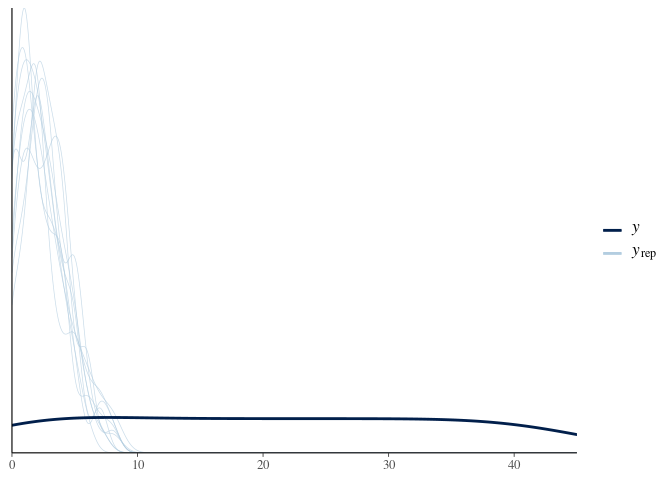
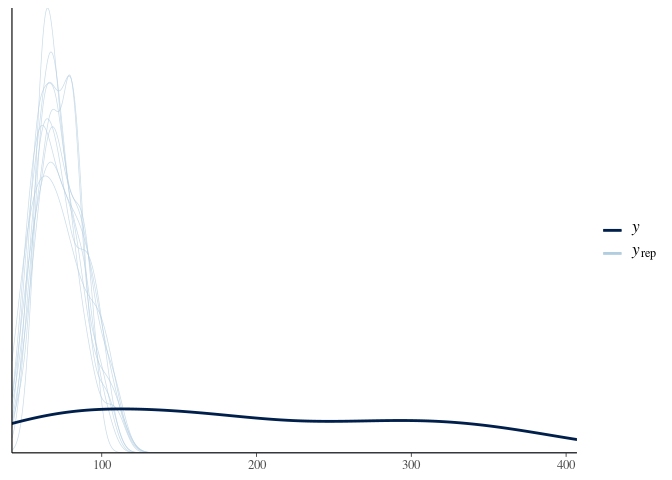
update simple readme example

diff --git a/README.md b/README.md
@@ -5,6 +5,7 @@
 
 [![Lifecycle:
 experimental](https://img.shields.io/badge/lifecycle-experimental-orange.svg)](https://www.tidyverse.org/lifecycle/#experimental)
+![R-CMD-check](https://github.com/epiforecasts/idbrms/workflows/R-CMD-check/badge.svg)
 [![Codecov test
 coverage](https://codecov.io/gh/epiforecasts/brms.ide/branch/master/graph/badge.svg)](https://codecov.io/gh/epiforecasts/brms.ide?branch=master)
 
@@ -23,7 +24,8 @@ devtools::install_github("epiforecasts/idbrms")
 
 ## Example
 
-  - Load `idbrms`, `brms` and `data.table` (used for manipulating data).
+  - Load `idbrms`, `brms`, `data.table` (used for manipulating data),
+    and `ggplot2` for visualisation.
 
 <!-- end list -->
 
@@ -31,48 +33,105 @@ devtools::install_github("epiforecasts/idbrms")
 library(idbrms)
 library(brms)
 library(data.table)
+library(ggplot2)
 ```
 
-  - Define toy data with a fixed 5 day lag between observations.
+  - Define simulated data containing cases of some infectious disease
+    over time in a single region (with an initial growth of 20% a day
+    followed by a decline of 10% a day). We then assume that deaths are
+    a convolution of cases using a log normal distribution with a log
+    mean of 1.6 (standard deviation 0.2) and a log standard deviation of
+    0.8 (standard deviation 0.2), and are then scaled by a fraction
+    (here 0.4 (standard deviation 0.025)).
 
 <!-- end list -->
 
 ``` r
-dt <- data.table(
-  region = "France", cases = seq(10, 500, by = 10),
+# apply a convolution of a log normal to a vector of observations
+weight_cmf <- function(x, ...) {
+   set.seed(x[1])
+   meanlog <- rnorm(1, 1.6, 0.2)
+   sdlog <- rnorm(1, 0.8, 0.1)
+   cmf <- cumsum(dlnorm(1:length(x), meanlog, sdlog)) -
+     cumsum(dlnorm(0:(length(x) - 1), meanlog, sdlog))
+   conv <- sum(x * rev(cmf), na.rm = TRUE)
+   conv <- round(conv, 0)
+  return(conv)
+}
+
+obs <- data.table(
+  region = "Glastonbury", 
+  cases = as.integer(c(10 * exp(0.2 * 1:25), 
+                       10 * exp(0.2 * 25) * exp(-0.1 * 1:25))),
   date = seq(as.Date("2020-10-01"), by = "days", length.out = 50))
-dt[, deaths := as.integer(shift(cases, 5) * 0.1)]
-dt[is.na(deaths), deaths := 0]
+# roll over observed cases to produce a convolution
+obs <- obs[, deaths := frollapply(cases, 15, weight_cmf, align = "right")]
+obs <- obs[!is.na(deaths)]
+obs <- obs[, deaths := round(deaths * rnorm(.N, 0.4, 0.025), 0)]
+obs <- obs[deaths < 0, deaths := 0]
 ```
+
+  - Visual simulated data (columns are cases and points are deaths).
+
+<!-- end list -->
+
+``` r
+ggplot(obs) +
+  aes(x = date, y = cases) +
+  geom_col(fill = "lightgrey") +
+  geom_point(aes(y = deaths)) +
+  theme_minimal()
+```
+
+<img src="man/figures/README-unnamed-chunk-3-1.png" width="100%" />
 
   - Prepare the data to be fit using the convolution model.
 
 <!-- end list -->
 
 ``` r
-dt <- prepare(dt, model = "convolution", location = "region",
-              primary = "cases", secondary = "deaths")
-head(dt, 10)
-#>     location       date time index init_obs cstart cmax primary secondary
-#>  1:   France 2020-10-01    0     1        1      1    1      10         0
-#>  2:   France 2020-10-02    1     2        1      1    2      20         0
-#>  3:   France 2020-10-03    2     3        1      1    3      30         0
-#>  4:   France 2020-10-04    3     4        1      1    4      40         0
-#>  5:   France 2020-10-05    4     5        1      1    5      50         0
-#>  6:   France 2020-10-06    5     6        1      1    6      60         1
-#>  7:   France 2020-10-07    6     7        1      1    7      70         2
-#>  8:   France 2020-10-08    7     8        1      1    8      80         3
-#>  9:   France 2020-10-09    8     9        1      1    9      90         4
-#> 10:   France 2020-10-10    9    10        1      1   10     100         5
+prep_obs <- prepare(obs, model = "convolution", location = "region",
+                    primary = "cases", secondary = "deaths")
+head(prep_obs, 10)
+#>        location       date time index init_obs cstart cmax primary secondary
+#>  1: Glastonbury 2020-10-15    0     1        1      1    1     200        42
+#>  2: Glastonbury 2020-10-16    1     2        1      1    2     245        47
+#>  3: Glastonbury 2020-10-17    2     3        1      1    3     299        54
+#>  4: Glastonbury 2020-10-18    3     4        1      1    4     365        74
+#>  5: Glastonbury 2020-10-19    4     5        1      1    5     447        59
+#>  6: Glastonbury 2020-10-20    5     6        1      1    6     545       113
+#>  7: Glastonbury 2020-10-21    6     7        1      1    7     666       115
+#>  8: Glastonbury 2020-10-22    7     8        1      1    8     814       160
+#>  9: Glastonbury 2020-10-23    8     9        1      1    9     994       158
+#> 10: Glastonbury 2020-10-24    9    10        1      1   10    1215       221
 ```
 
-  - Fit the model.
+  - Fit the model assuming a Poisson observation model (*It is important
+    to use an identity link here as `idbrm` provides its own link by
+    default*).
 
 <!-- end list -->
 
 ``` r
-fit <- idbrm(data = dt)
+fit <- idbrm(data = dt, family = poisson(link = "identity"))
 summary(fit)
+```
+
+  - Explore estimated effect sizes (we approximately should recover
+    those used for simulation).
+
+<!-- end list -->
+
+``` r
+exp(posterior_summary(fit, "scale_Intercept"))
+#>                    Estimate Est.Error      Q2.5     Q97.5
+#> b_scale_Intercept 0.4235455  1.017231 0.4093871 0.4376386
+posterior_summary(fit, "cmean_Intercept")
+#>                   Estimate Est.Error     Q2.5    Q97.5
+#> b_cmean_Intercept 1.542616 0.0343038 1.477288 1.609575
+exp(posterior_summary(fit, "lcsd_Intercept"))
+#>                   Estimate Est.Error      Q2.5     Q97.5
+#> b_lcsd_Intercept 0.7569181  1.064411 0.6686294 0.8568435
 ```
 
   - Expose model stan functions.
